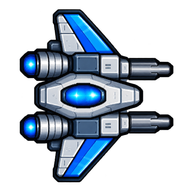
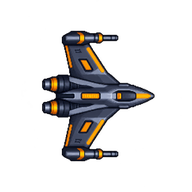
fix(web): restore despawn explosion event listener (#78)
* fix(web): restore despawn explosion event listener

- Re-register the ENTITY_EXPLODED_EVENT listener removed in df64e94; the cleanup still removed it, so visual explosions never fired while audio did.

* feat: explosion animations

diff --git a/packages/content/preload-entity-types.ts b/packages/content/preload-entity-types.ts
@@ -151,14 +151,16 @@ export const ENTITY_CONTENT = [
     "builds": [],
     "upgrades": [],
     "visual": {},
-    "definition": "build_cost:\n  energy: 55\n  minerals: 90\ncombat:\n  acquisition_range: 1600\n  attacks:\n    - cooldown_ticks: 30\n      damage: 12\n      id: kinetic\n      range: 900\n      type: kinetic\n      projectile:\n        entity_type_id: kinetic_projectile\n        speed: 1600\n        max_travel_distance: 1400\n  on_near_enemy_strategy: approach\ncombat_targetable: true\nfog_memory: forget_when_hidden\nhealth: 80\nhull_radius: 65\nmaintenance_cost_per_minute:\n  energy: 2.5\n  food: 1\nmass: 0.65\nmax_capacity:\n  energy: 150\n  food: 60\nsensor:\n  range: 1600\nspeed: 360\nstop_radius: 0.5"
+    "definition": "build_cost:\n  energy: 55\n  minerals: 90\ncombat:\n  acquisition_range: 12000\n  attacks:\n    - cooldown_ticks: 30\n      damage: 100\n      id: kinetic\n      projectile:\n        entity_type_id: kinetic_projectile\n        max_travel_distance: 10000\n        speed: 1600\n      range: 12000\n      type: kinetic\n  on_near_enemy_strategy: approach\ncombat_targetable: true\nfog_memory: forget_when_hidden\nhealth: 80\nhull_radius: 65\nmaintenance_cost_per_minute:\n  energy: 2.5\n  food: 1\nmass: 0.65\nmax_capacity:\n  energy: 150\n  food: 60\nsensor:\n  range: 1600\nspeed: 360\nstop_radius: 0.5"
   },
   {
     "id": "kinetic_projectile",
     "builds": [],
     "upgrades": [],
-    "visual": {},
-    "definition": "fog_memory: forget_when_hidden\nhealth: 1\nmass: 1\nspeed: 0\nstop_radius: 0\nsuppress_hover: true\nz_index: 10"
+    "visual": {
+      "scale": 1
+    },
+    "definition": "fog_memory: forget_when_hidden\nhealth: 1\nmass: 1\nspeed: 0\nstop_radius: 0\nsuppress_hover: true\nvisual:\n  scale: 1\nz_index: 10"
   },
   {
     "id": "battleship",

diff --git a/apps/web/src/features/pixijs/components/GameStage.tsx b/apps/web/src/features/pixijs/components/GameStage.tsx
@@ -384,6 +384,7 @@ export default function GameStage() {
           if (!entity) return;
           despawnExplosions.explode(entity);
         };
+        window.addEventListener(ENTITY_EXPLODED_EVENT, onEntityExploded);
 
         const renderRadiationRanges = () => {
           radiationRangeGraphics.clear();
